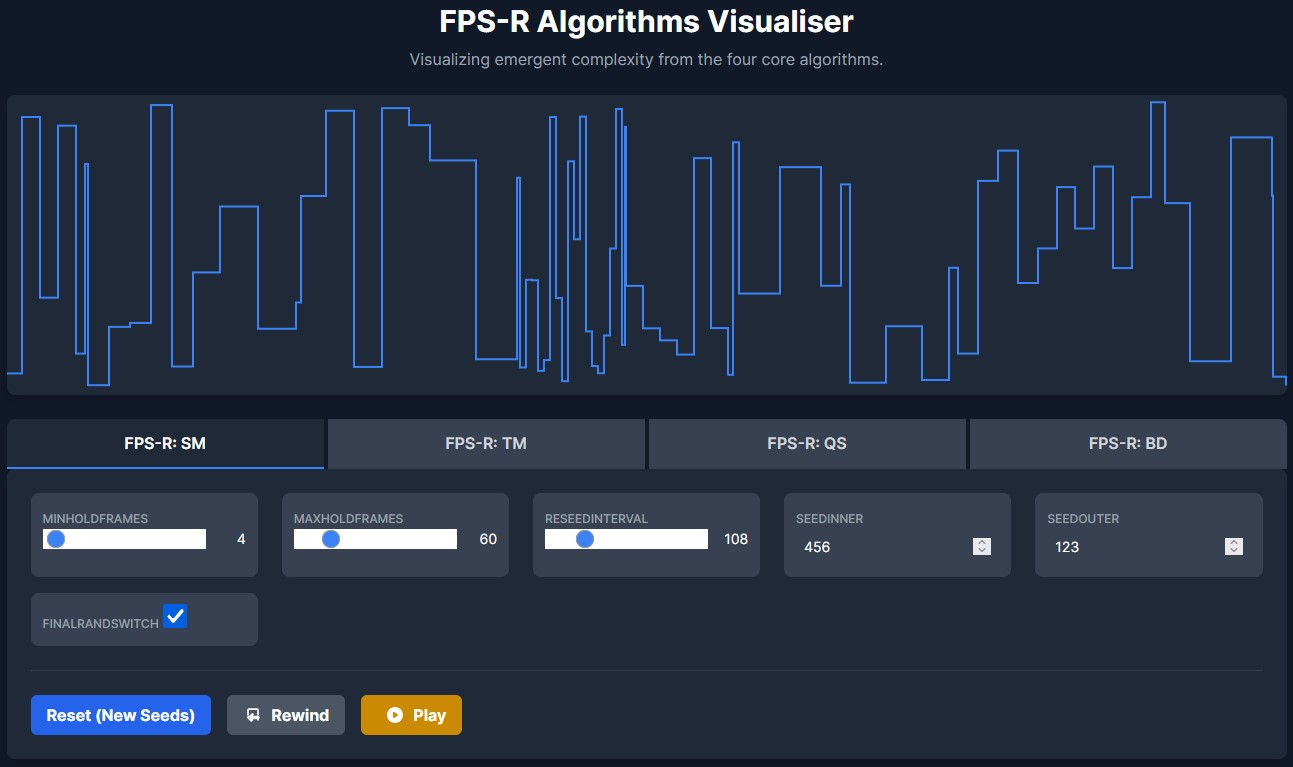
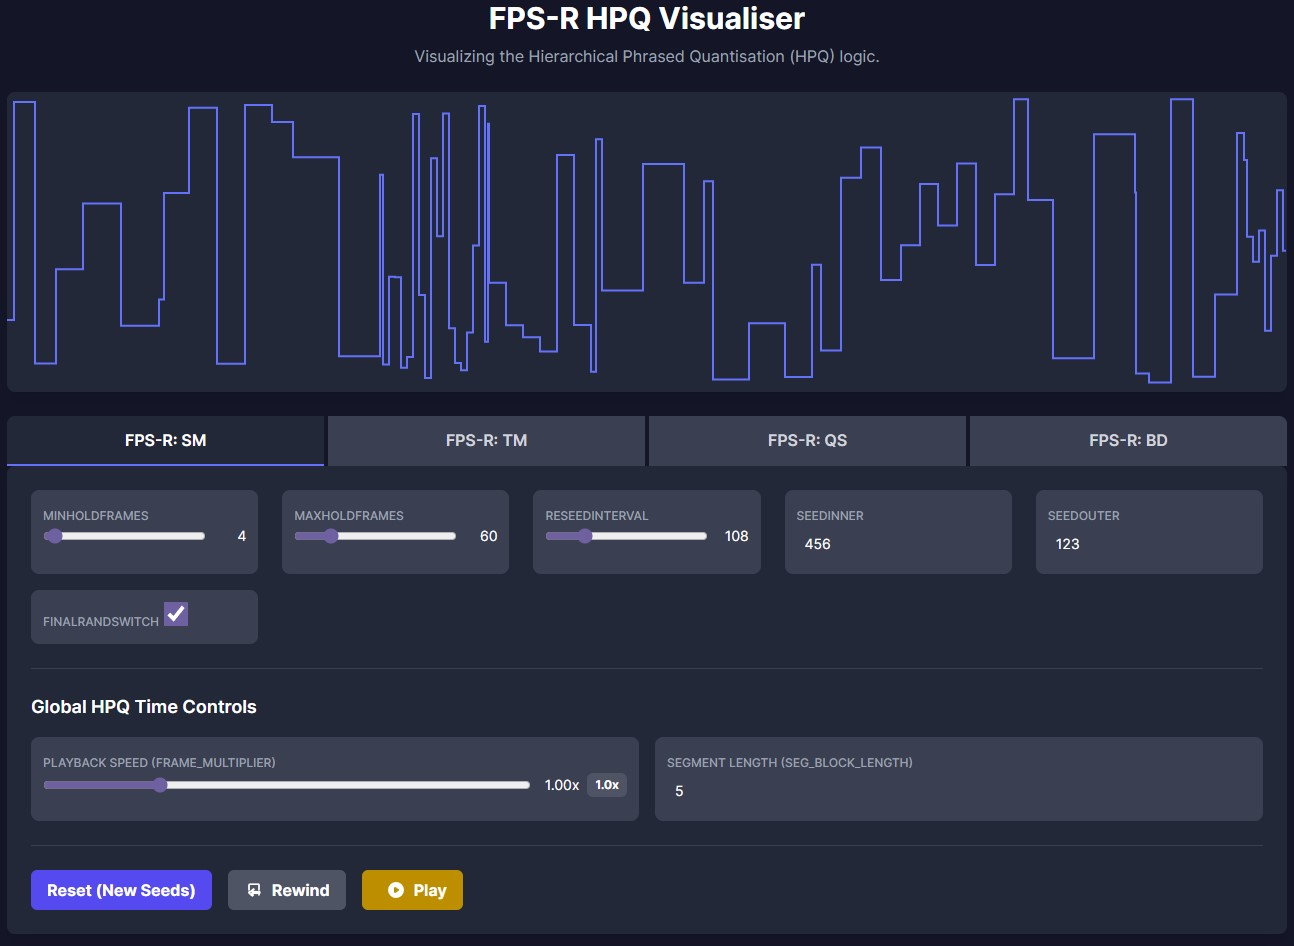
Update changelog, README, and visualiser image
Added release notes for version 2.0.8 in CHANGELOG.md, detailing algorithm improvements and bug fixes. README.md updated with new BD algorithm output graph and improved QS section wording. Replaced fpsr_html_visualiser.jpg with a new version.

diff --git a/README.md b/README.md
@@ -240,10 +240,14 @@ This is the distribution graph of TM's output after 100,000 time-steps. TM can a
 
 ## FPS-R: QS
 ![fpsr_qs](./resources/readme/images/fspr_data_analysis/fpsr_qs_output.png)
-The last algorithm is perhaps the most expressive, able to produce a wide range of phrasing patterns and the strongest contrast between short bursts of stuttering or glitching and long periods of holding. QS has the highest number of parameters. 
+The QS algorithm is perhaps the most expressive; able to produce a wide range of phrasing patterns and the strongest contrast between short bursts of stuttering or glitching and long periods of holding. QS has the highest number of parameters. 
 
 ![fpsr_qs_distri](./resources/readme/images/fspr_data_analysis/fpsr_qs_distri.png)
 This is the distribution graph of QS's output after 100,000 time-steps. The distribution of the output values from QS are not evenly distributed. This is the nature of the algorithm. The distribution shape (ie, which bands of values will be the prominent, resonant ones) will differ depending on the parameters.
+
+## FPS-R: BD
+![fpsr_qs](./resources/readme/images/fspr_data_analysis/fpsr_bd_output.png)
+This is the distribution graph of the output values of BD.
 
 ## Great Flexibility
 The graphs shown above are example outputs. With different parameters, each algorithm can achieve a wide variety of holding patterns and random values. This is especially true of FPS-R QS.

diff --git a/CHANGELOG.md b/CHANGELOG.md
@@ -6,6 +6,19 @@ The format is based on [Keep a Changelog](https://keepachangelog.com/en/1.1.0/),
 
 ## Unreleased
 
+
+
+## [2.0.8] - 2025-11-05
+## Changed
+- Add thread-safe sine lookup tables with platform-specific initialization
+- Align Python FPSR algorithms with C reference implementation for deterministic parity
+- Fix quantization seeding logic in fpsr_qs to preserve level information
+- Add comprehensive overflow checks in fpsr_bd memory allocation
+- Implement flexible sine level-of-detail Look-up Table system for fpsr_qs
+- Remove incorrect seed multipliers in fpsr_sm and fpsr_tm to match C canonical logic
+- Update test parameters in main() to match C reference for direct comparison
+
+
 ---
 ## [2.0.7] - 2025-11-04
 ## Changed
